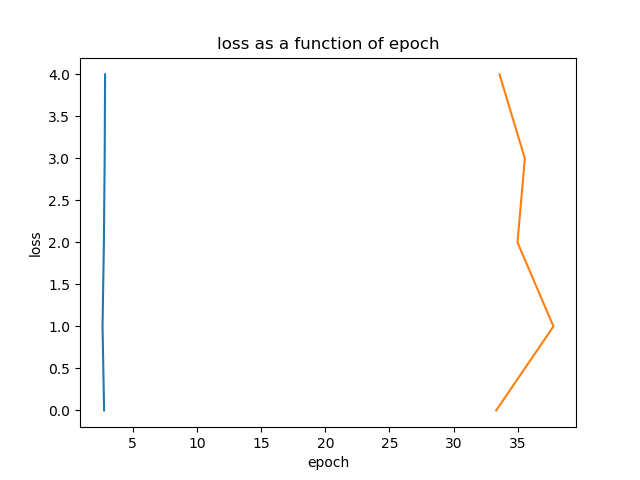
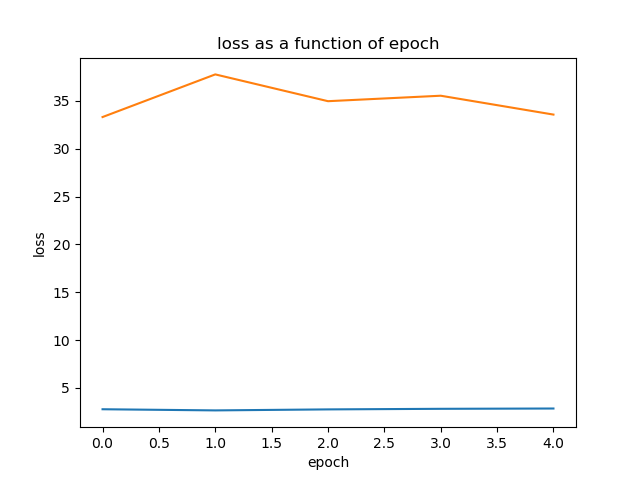
Final

diff --git a/plot_val.py b/plot_val.py
@@ -18,8 +18,8 @@ for data in train_data:
 plt.title("loss as a function of epoch")
 plt.xlabel("epoch")
 plt.ylabel("loss")
-plt.plot(output_data,epoch)
-plt.plot(accuracy_data,epoch)
+plt.plot(output_data)
+plt.plot(accuracy_data)
 plt.savefig("loss_for_accu")
 print(output_data)
 
